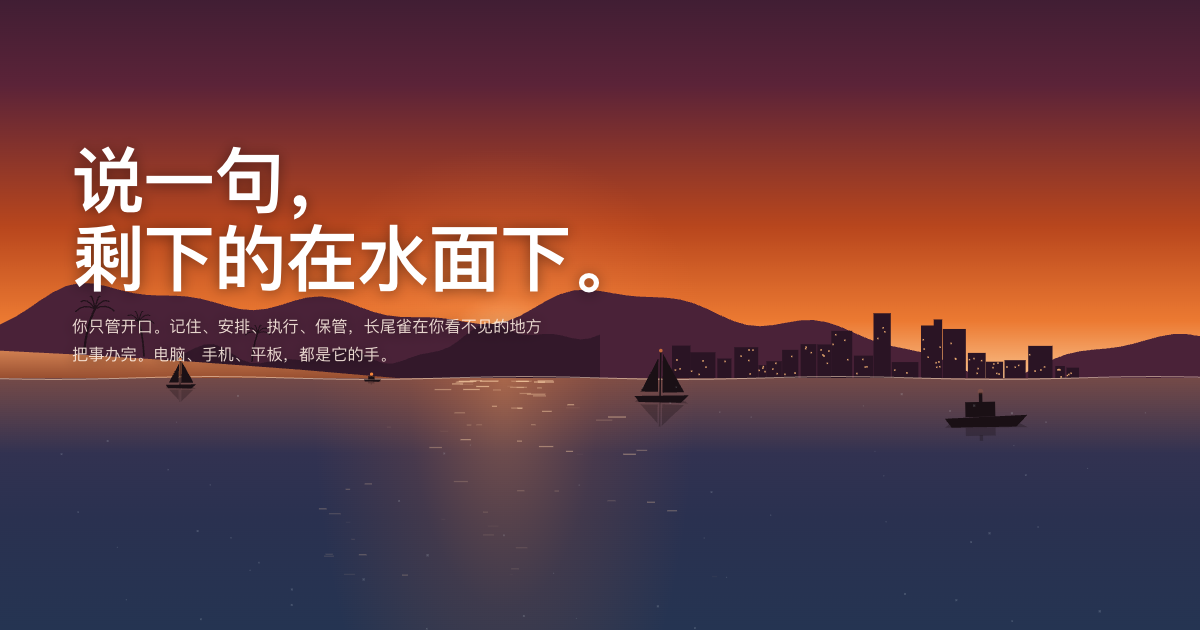
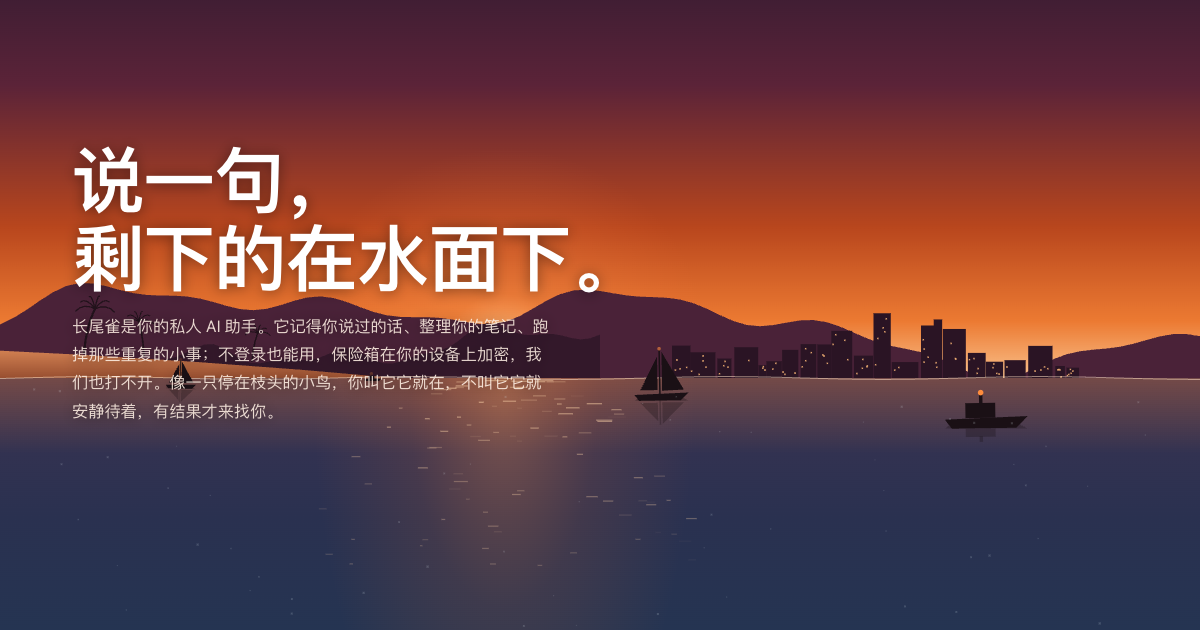
关于页与首页首屏：落地「长尾雀」名字的含义（按产品实际改写）
关于页用 sam 原稿「一段」版，首页首屏导语用「两三句」版；原稿里「本地运行 / 不上传 / 不推送」的说法
按实际改写（对话走云端模型、登录后同步、执勤会推送）。真鸟照片未授权，先画占位框。og.png 重新生成。

diff --git a/src/i18n/zh.ts b/src/i18n/zh.ts
@@ -64,7 +64,8 @@ export const zh = {
         zone: '海平面',
         eyebrow: `${B.productName} · 私人 AI 助手`,
         title: '说一句，\n剩下的在水面下。',
-        body: `你只管开口。记住、安排、执行、保管，${B.productName}在你看不见的地方把事办完。电脑、手机、平板，都是它的手。`,
+        // 名字故事的「两三句」版（sam 10-23 原稿，按产品实际改写：对话走云端模型、登录后会同步、执勤会推送）。
+        body: `${B.productName}是你的私人 AI 助手。它记得你说过的话、整理你的笔记、跑掉那些重复的小事；不登录也能用，保险箱在你的设备上加密，我们也打不开。像一只停在枝头的小鸟，你叫它它就在，不叫它它就安静待着，有结果才来找你。`,
         cta: [
           { href: '/download/', label: `下载${B.productName}`, primary: true },
           { href: '#dive', label: '往下潜 ↓' },
@@ -400,12 +401,17 @@ export const zh = {
 
   about: {
     title: `关于${B.productName}`,
-    // 名字的含义：等 sam 给文案后补在这里（别自己编），现在只放一句定位。
-    lead: `${B.productName}是一款私人 AI 助手。`,
+    lead: '停在你身边的私人 AI 助手。',
+    // 名字的含义：sam 10-23 原稿「一段」版，按产品实际改写（不写本地运行、不上传、不推送）。
+    // 正文里的「长尾雀」指真鸟（物种名），不是产品名，所以不走 brand 常量。
     body: [
-      '我们想做的是一个真正替你干活的助手。你在水面上说一句话，剩下的在水面下发生：拆任务、派设备、记下来、存好。你看不见它在忙，但它一直在。',
+      '长尾雀是一种真实存在的小鸟：只有麻雀大，尾巴却占了身长的一半，一年四季都停在同一片灌木丛里，不吵也不走。我们用它给这个产品起名，是因为它做的事和这只鸟很像。',
+      '「长尾」是长尾需求：那些没有哪个大产品会专门做、却占了你生活一半的小事。「雀」是离人最近的鸟，但不聒噪：没变化它就安静，有结果才来找你。而它停在枝头守着，是我们最重要的承诺：到点的事，它自己醒来去做；你的东西，它替你看好。不登录也能用，保险箱在你的设备上加密，服务器上只有密文，我们也打不开。',
+      `英文名 ${B.productNameEn}，que 是雀，tail 是尾巴，合起来还是那只长尾雀。熟了以后，叫它${B.nickname}就行。`,
       `${B.productName}由一个很小的团队开发，服务端、电脑端、手机端和 Studio 都是自己写的。我们在意两件事：你的数据只用来帮你做事，以及能在本机做完的事尽量不上云。`,
     ],
+    photoAlt: '长尾雀（Carpodacus sibiricus）',
+    photoPending: '长尾雀照片待授权',
     contactTitle: '联系方式',
   },
 
